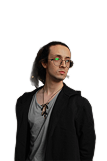
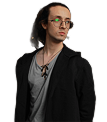
tradução arrumada e atualizando foto do vicenzo

Changed region(s): [[0.1121, 0.0, 0.8972, 0.9836]]

diff --git a/src/screens/AboutUs/index.tsx b/src/screens/AboutUs/index.tsx
@@ -55,7 +55,7 @@ export default function AboutUsScreen({ navigation }: any) {
             <Text>{t("pages.StartupDetails.titleDesc")}</Text>
           </View>
           <View>
-            <Text>{t("text")}</Text>
+            <Text>{t("pages.text")}</Text>
           </View>
         </View>
         <View>
